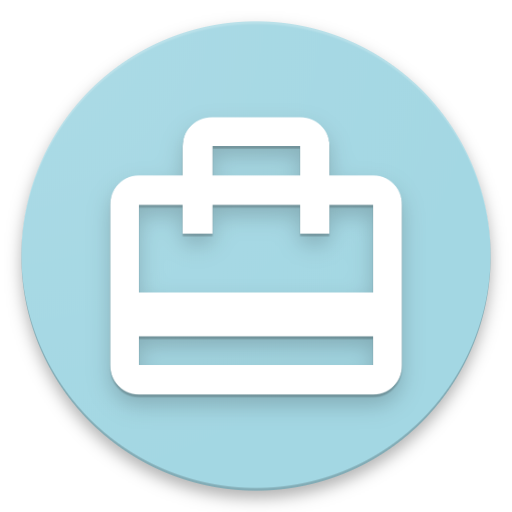
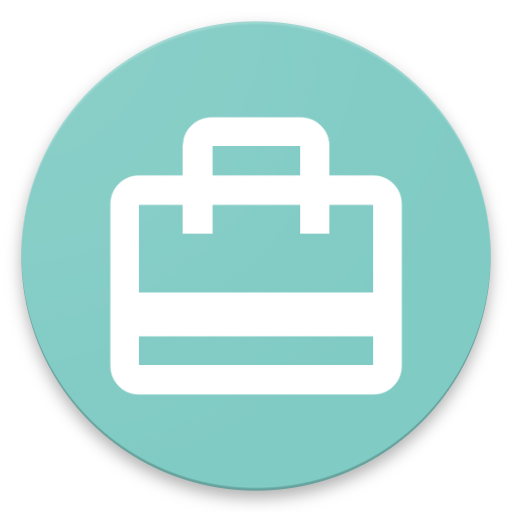
Fixed buttons and color

diff --git a/App.js b/App.js
@@ -3,6 +3,8 @@ import { StyleSheet, Text, Image, View, TouchableOpacity } from 'react-native';
 import { Button } from 'react-native-elements';
 import { Font } from 'expo';
 
+const OButton = props => <Button Component={TouchableOpacity} buttonStyle={styles.buttonStyle} fontFamily='zillaSlabRegular' fontSize={20} {...props} />;
+
 export default class App extends React.Component {
   state = {
     fontLoaded: false,
@@ -29,10 +31,10 @@ export default class App extends React.Component {
 
         <View style={styles.buttonsContainer}>
           <View style={styles.buttonContainer}>
-            <Button title='Add items to your itinerary' buttonStyle={styles.buttonStyle} fontFamily='zillaSlabRegular' fontSize={20} Component={TouchableOpacity}></Button>
+            <OButton title='Add items to your itinerary'></OButton>
           </View>
           <View style={styles.buttonContainer}>
-            <Button title='Look for attractions nearby' buttonStyle={styles.buttonStyle} fontFamily='zillaSlabRegular' fontSize={20} Component={TouchableOpacity} ></Button>
+            <OButton title='Look for attractions nearby'></OButton>
           </View>
         </View>
       </View>
@@ -87,11 +89,16 @@ const styles = StyleSheet.create({
 
   // Object Style
   buttonStyle: {
+    shadowColor: 'rgba(0, 0, 0, 0.4)', // IOS
+    shadowOffset: { height: 1, width: 1 }, // IOS
+    shadowOpacity: 1, // IOS
+    shadowRadius: 1, //IOS
+    elevation: 2, //Android
     alignItems:'center',
     justifyContent:'center',
     width:350,
     height:70,
-    backgroundColor:'#a3d7e3',
+    backgroundColor:'#80cbc4',
     borderRadius:100,
   }
 });
